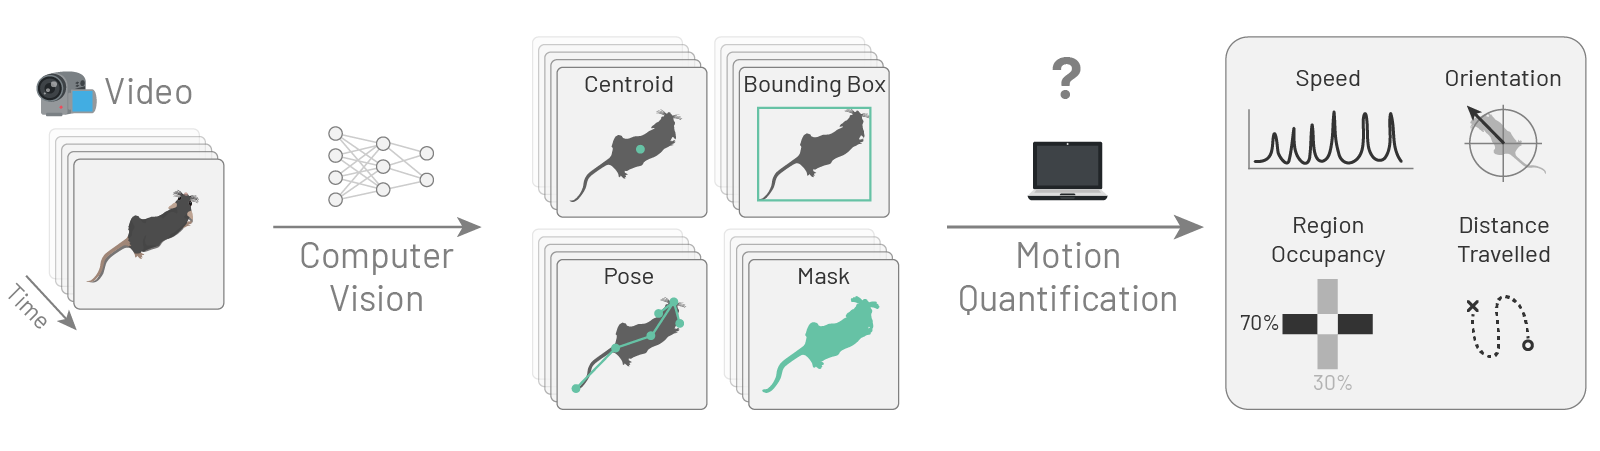
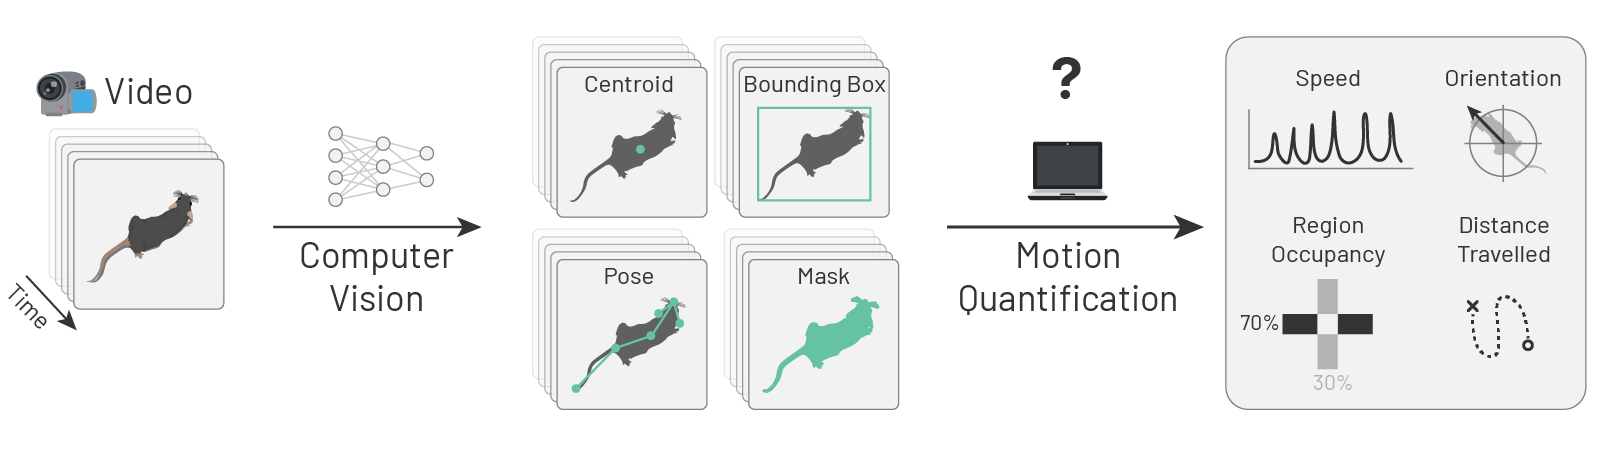
add dark figures

diff --git a/docs/source/blog/trusted-by-design_part1.md b/docs/source/blog/trusted-by-design_part1.md
@@ -46,8 +46,15 @@ Through this process we concluded that the deep learning revolution of the last 
 
 ```{figure} /_static/blog_images/trusted-by-design/gap_after_tracking.png
 :align: center
+:class: only-light
 
-A schematic illustration of the gap in the open-source ecosystem for animal behaviour analysis that movement aims to fill.
+A schematic illustration of the gap in the open-source ecosystem for animal behaviour analysis that *movement* aims to fill.
+```
+```{figure} /_static/blog_images/trusted-by-design/gap_after_tracking_dark.png
+:align: center
+:class: only-dark
+
+A schematic illustration of the gap in the open-source ecosystem for animal behaviour analysis that *movement* aims to fill.
 ```
 
 And that's how  *movement*'s 'abstract' was born. You just read it. You can find a version of it on the [project's homepage](https://movement.neuroinformatics.dev). Over time we expanded that into a [whole page](https://movement.neuroinformatics.dev/latest/community/mission-scope.html) detailing the project's mission, scope, and design principles.
@@ -56,6 +63,13 @@ You may have noticed that the homepage also contains a visual overview of the pr
 
 ```{figure} /_static/blog_images/trusted-by-design/movement_overview.png
 :align: center
+:class: only-light
+
+A *graphical abstract* for the *movement* project, including the key tasks it covers and how it relates to other tools.
+```
+```{figure} /_static/blog_images/trusted-by-design/movement_overview_dark.png
+:align: center
+:class: only-dark
 
 A *graphical abstract* for the *movement* project, including the key tasks it covers and how it relates to other tools.
 ```
